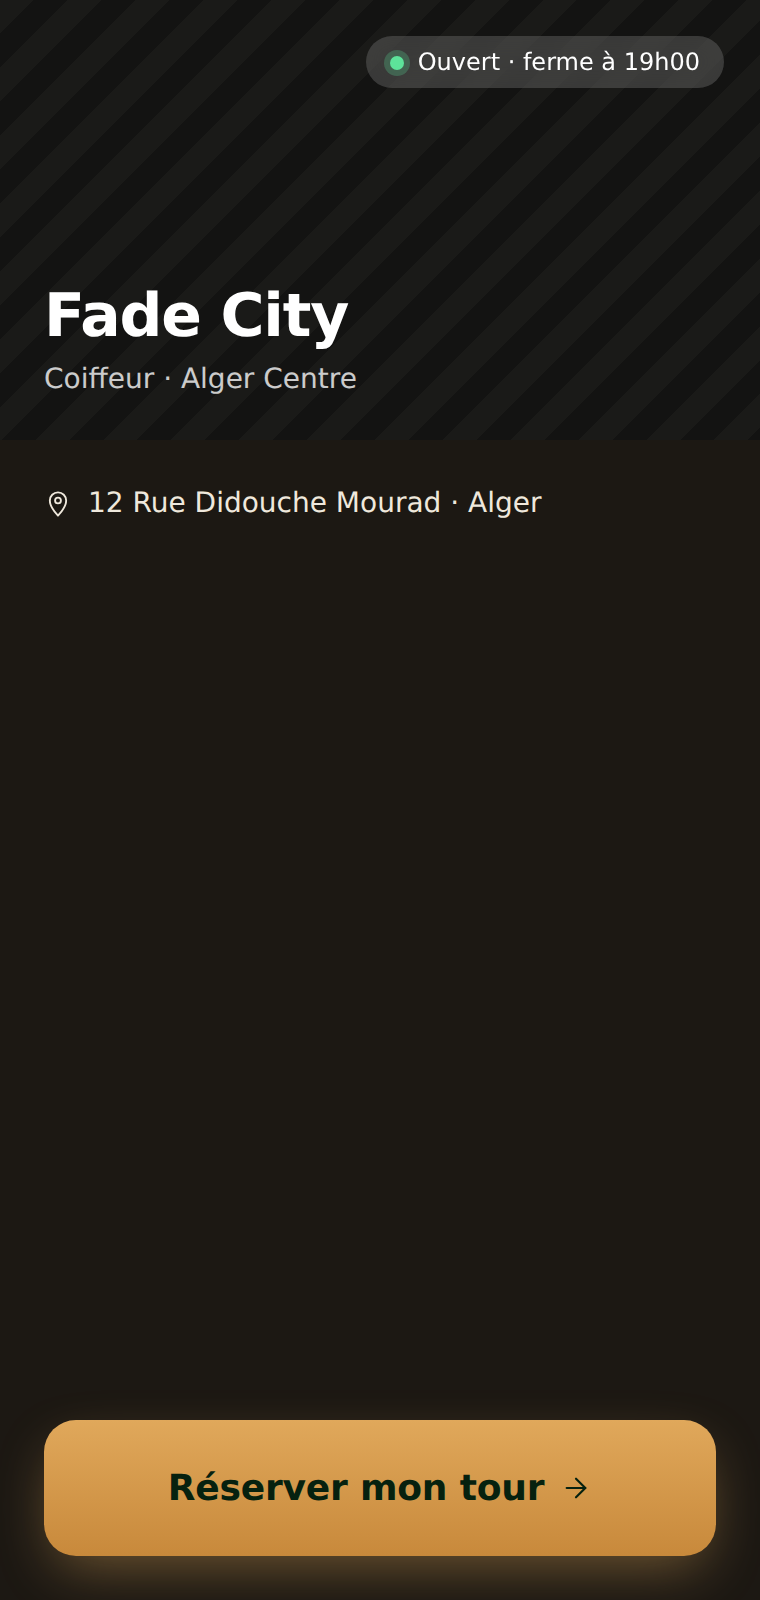
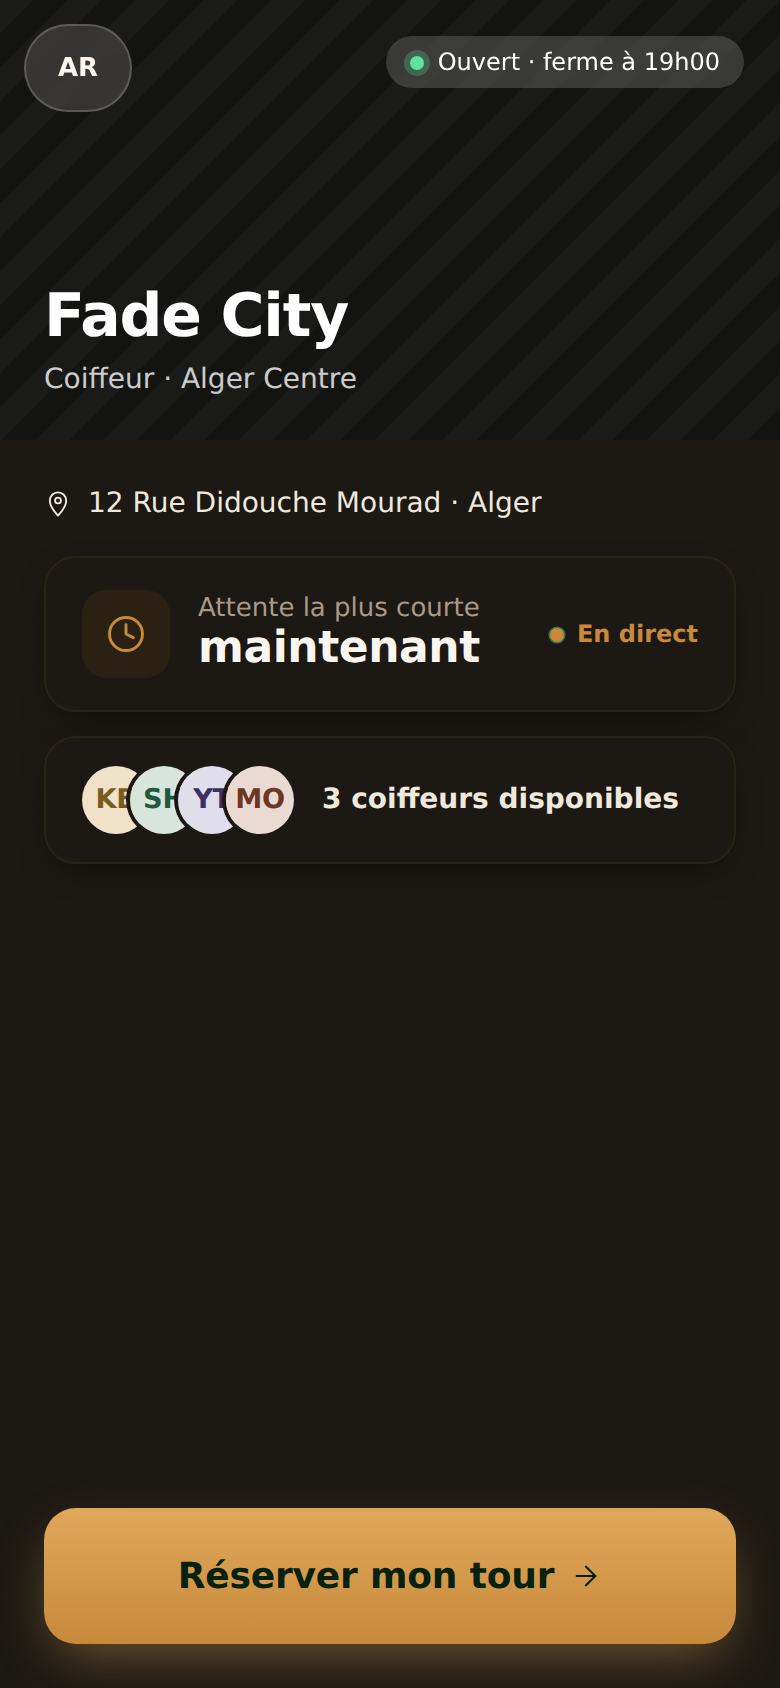
UI/UX: branded loading splash, richer booking landing, form hints
Guided by the ui-ux-pro-max checklist (progressive-loading, content-priority,
visual-hierarchy, autofill-support, input-type-keyboard):

- Branded loading splash (scissors logo + name + spinner) in all entries so the
  screen is never blank while React/Babel boot on a cold load; React replaces it
  on mount. Respects reduced-motion.
- Booking landing: filled the empty space with a live "shortest wait · En direct"
  card and the barber-team strip ("N coiffeurs disponibles") — useful info up
  front + better hierarchy.
- Details form: autocomplete (name / tel) + inputMode=tel so mobile shows the
  right keyboard and can autofill.

Re-synced site/. Verified: standalone app + site console-clean; splash and the
new landing render correctly.

https://claude.ai/code/session_01KXeZ2jfMa8Hu5hkugmRzRp

diff --git a/site/src/customer-flow.jsx b/site/src/customer-flow.jsx
@@ -137,6 +137,9 @@ function CustomerFlow({ lang = 'fr', density = 'sparse', barberOverrides = {}, o
 // STEP 0 — Salon landing (intentionally minimal — name, address, status, CTA)
 // ─────────────────────────────────────────────────────────────
 function SalonLanding({ t, onBook }) {
+  const open = BARBERS.filter(b => b.state !== 'break');
+  const shortestEta = open.length ? Math.min(...open.map(b => b.etaMin || 0)) : 0;
+  const waitLabel = shortestEta <= 0 ? (t.dir === 'rtl' ? 'الآن' : 'maintenant') : `~${shortestEta} ${t.min}`;
   return (
     <div style={{ flex: 1, overflow: 'hidden', display: 'flex', flexDirection: 'column' }}>
       {/* Hero "image" placeholder — striped, gives the shop a sense of presence */}
@@ -172,7 +175,45 @@ function SalonLanding({ t, onBook }) {
           <span>{t.salonAddr}</span>
         </div>
 
-        <div style={{ flex: 1 }} />
+        {/* Live "now" snapshot — shortest wait + the team (fills the space with useful info) */}
+        <div style={{ display: 'flex', flexDirection: 'column', gap: 12 }}>
+          <div style={{ background: TOKENS.surface, border: `1px solid ${TOKENS.borderSoft}`, borderRadius: 16,
+                        padding: '16px 18px', display: 'flex', alignItems: 'center', gap: 14, boxShadow: TOKENS.shadowSm }}>
+            <div style={{ width: 44, height: 44, borderRadius: 12, background: TOKENS.accentSoft, color: TOKENS.accent,
+                          display: 'flex', alignItems: 'center', justifyContent: 'center', flexShrink: 0 }}>
+              <Icon name="clock" size={22} />
+            </div>
+            <div style={{ flex: 1, minWidth: 0 }}>
+              <div style={{ fontSize: 13, color: TOKENS.muted }}>
+                {t.dir === 'rtl' ? 'أقصر انتظار الآن' : 'Attente la plus courte'}
+              </div>
+              <div style={{ fontSize: 22, fontWeight: 800, letterSpacing: '-0.01em', fontVariantNumeric: 'tabular-nums' }}>
+                {waitLabel}
+              </div>
+            </div>
+            <span style={{ display: 'inline-flex', alignItems: 'center', gap: 6, fontSize: 12, fontWeight: 700, color: TOKENS.accent }}>
+              <span style={{ width: 7, height: 7, borderRadius: '50%', background: TOKENS.accent,
+                             animation: 'fc-pulse 1.8s ease-in-out infinite' }} />
+              {t.dir === 'rtl' ? 'مباشر' : 'En direct'}
+            </span>
+          </div>
+          <div style={{ background: TOKENS.surface, border: `1px solid ${TOKENS.borderSoft}`, borderRadius: 16,
+                        padding: '14px 18px', display: 'flex', alignItems: 'center', gap: 14, boxShadow: TOKENS.shadowSm }}>
+            <div style={{ display: 'flex' }}>
+              {BARBERS.slice(0, 4).map((b, i) => (
+                <div key={b.id} style={{ marginInlineStart: i ? -10 : 0, borderRadius: '50%',
+                                         boxShadow: `0 0 0 2px ${TOKENS.surface}` }}>
+                  <Avatar initials={b.initials} tint={b.tint} text={b.text} size={34} />
+                </div>
+              ))}
+            </div>
+            <div style={{ flex: 1, fontSize: 14, color: TOKENS.inkSoft, fontWeight: 600 }}>
+              {t.dir === 'rtl' ? `${open.length} حلاقون متاحون` : `${open.length} coiffeurs disponibles`}
+            </div>
+          </div>
+        </div>
+
+        <div style={{ flex: 1, minHeight: 18 }} />
         <Button variant="accent" size="xl" onClick={onBook} rightIcon="arrow-right">{t.bookCta}</Button>
       </div>
     </div>
@@ -475,11 +516,11 @@ function DetailsStep({ t, barber, lang, service, timeKey, dayIdx, name, phone, s
       <div style={{ display: 'flex', flexDirection: 'column', gap: 14, marginTop: 18 }}>
         <Field label={t.fullName} icon="user">
           <input value={name} onChange={e => setName(e.target.value)} placeholder={t.namePlaceholder}
-                 style={inputStyle(t)} />
+                 autoComplete="name" autoCapitalize="words" style={inputStyle(t)} />
         </Field>
         <Field label={t.phone} icon="phone" prefix="+213">
           <input value={phone} onChange={e => setPhone(e.target.value)} placeholder={t.phonePlaceholder}
-                 inputMode="tel" style={{ ...inputStyle(t), paddingInlineStart: 80 }} />
+                 inputMode="tel" autoComplete="tel" style={{ ...inputStyle(t), paddingInlineStart: 80 }} />
         </Field>
         <div style={{ fontSize: 12, color: TOKENS.muted, lineHeight: 1.5,
                       display: 'flex', alignItems: 'flex-start', gap: 8 }}>

diff --git a/src/customer-flow.jsx b/src/customer-flow.jsx
@@ -137,6 +137,9 @@ function CustomerFlow({ lang = 'fr', density = 'sparse', barberOverrides = {}, o
 // STEP 0 — Salon landing (intentionally minimal — name, address, status, CTA)
 // ─────────────────────────────────────────────────────────────
 function SalonLanding({ t, onBook }) {
+  const open = BARBERS.filter(b => b.state !== 'break');
+  const shortestEta = open.length ? Math.min(...open.map(b => b.etaMin || 0)) : 0;
+  const waitLabel = shortestEta <= 0 ? (t.dir === 'rtl' ? 'الآن' : 'maintenant') : `~${shortestEta} ${t.min}`;
   return (
     <div style={{ flex: 1, overflow: 'hidden', display: 'flex', flexDirection: 'column' }}>
       {/* Hero "image" placeholder — striped, gives the shop a sense of presence */}
@@ -172,7 +175,45 @@ function SalonLanding({ t, onBook }) {
           <span>{t.salonAddr}</span>
         </div>
 
-        <div style={{ flex: 1 }} />
+        {/* Live "now" snapshot — shortest wait + the team (fills the space with useful info) */}
+        <div style={{ display: 'flex', flexDirection: 'column', gap: 12 }}>
+          <div style={{ background: TOKENS.surface, border: `1px solid ${TOKENS.borderSoft}`, borderRadius: 16,
+                        padding: '16px 18px', display: 'flex', alignItems: 'center', gap: 14, boxShadow: TOKENS.shadowSm }}>
+            <div style={{ width: 44, height: 44, borderRadius: 12, background: TOKENS.accentSoft, color: TOKENS.accent,
+                          display: 'flex', alignItems: 'center', justifyContent: 'center', flexShrink: 0 }}>
+              <Icon name="clock" size={22} />
+            </div>
+            <div style={{ flex: 1, minWidth: 0 }}>
+              <div style={{ fontSize: 13, color: TOKENS.muted }}>
+                {t.dir === 'rtl' ? 'أقصر انتظار الآن' : 'Attente la plus courte'}
+              </div>
+              <div style={{ fontSize: 22, fontWeight: 800, letterSpacing: '-0.01em', fontVariantNumeric: 'tabular-nums' }}>
+                {waitLabel}
+              </div>
+            </div>
+            <span style={{ display: 'inline-flex', alignItems: 'center', gap: 6, fontSize: 12, fontWeight: 700, color: TOKENS.accent }}>
+              <span style={{ width: 7, height: 7, borderRadius: '50%', background: TOKENS.accent,
+                             animation: 'fc-pulse 1.8s ease-in-out infinite' }} />
+              {t.dir === 'rtl' ? 'مباشر' : 'En direct'}
+            </span>
+          </div>
+          <div style={{ background: TOKENS.surface, border: `1px solid ${TOKENS.borderSoft}`, borderRadius: 16,
+                        padding: '14px 18px', display: 'flex', alignItems: 'center', gap: 14, boxShadow: TOKENS.shadowSm }}>
+            <div style={{ display: 'flex' }}>
+              {BARBERS.slice(0, 4).map((b, i) => (
+                <div key={b.id} style={{ marginInlineStart: i ? -10 : 0, borderRadius: '50%',
+                                         boxShadow: `0 0 0 2px ${TOKENS.surface}` }}>
+                  <Avatar initials={b.initials} tint={b.tint} text={b.text} size={34} />
+                </div>
+              ))}
+            </div>
+            <div style={{ flex: 1, fontSize: 14, color: TOKENS.inkSoft, fontWeight: 600 }}>
+              {t.dir === 'rtl' ? `${open.length} حلاقون متاحون` : `${open.length} coiffeurs disponibles`}
+            </div>
+          </div>
+        </div>
+
+        <div style={{ flex: 1, minHeight: 18 }} />
         <Button variant="accent" size="xl" onClick={onBook} rightIcon="arrow-right">{t.bookCta}</Button>
       </div>
     </div>
@@ -475,11 +516,11 @@ function DetailsStep({ t, barber, lang, service, timeKey, dayIdx, name, phone, s
       <div style={{ display: 'flex', flexDirection: 'column', gap: 14, marginTop: 18 }}>
         <Field label={t.fullName} icon="user">
           <input value={name} onChange={e => setName(e.target.value)} placeholder={t.namePlaceholder}
-                 style={inputStyle(t)} />
+                 autoComplete="name" autoCapitalize="words" style={inputStyle(t)} />
         </Field>
         <Field label={t.phone} icon="phone" prefix="+213">
           <input value={phone} onChange={e => setPhone(e.target.value)} placeholder={t.phonePlaceholder}
-                 inputMode="tel" style={{ ...inputStyle(t), paddingInlineStart: 80 }} />
+                 inputMode="tel" autoComplete="tel" style={{ ...inputStyle(t), paddingInlineStart: 80 }} />
         </Field>
         <div style={{ fontSize: 12, color: TOKENS.muted, lineHeight: 1.5,
                       display: 'flex', alignItems: 'flex-start', gap: 8 }}>

diff --git a/index.html b/index.html
@@ -38,6 +38,11 @@
   ::selection { background: #C8893B55; }
   button, [role="button"], a, input, textarea, select { touch-action: manipulation; }
   :focus-visible { outline: 2px solid #E0A85B; outline-offset: 2px; border-radius: 4px; }
+  .fc-boot { position: fixed; inset: 0; z-index: 5; display: flex; flex-direction: column; align-items: center; justify-content: center; gap: 16px; }
+  .fc-boot-logo { width: 72px; height: 72px; border-radius: 20px; background: linear-gradient(145deg,#E0A85B,#C8893B); display: flex; align-items: center; justify-content: center; box-shadow: 0 12px 30px -8px rgba(224,168,91,0.4); }
+  .fc-boot-name { font-size: 18px; font-weight: 800; letter-spacing: -0.01em; color: #FAF6EF; }
+  .fc-boot-spin { width: 26px; height: 26px; border-radius: 50%; border: 3px solid rgba(224,168,91,0.25); border-top-color: #E0A85B; animation: fc-spin .8s linear infinite; }
+  @keyframes fc-spin { to { transform: rotate(360deg); } }
 
   /* Ambient pulsing light circles in the background — like a heartbeat */
   .ambient-blur {
@@ -85,7 +90,7 @@
   <div class="ambient-blur a"></div>
   <div class="ambient-blur b"></div>
   <div class="ambient-blur c"></div>
-  <div id="root"></div>
+  <div id="root"><div class="fc-boot" aria-hidden="true"><div class="fc-boot-logo"><svg viewBox="0 0 24 24" width="34" height="34" fill="none" stroke="#1C1813" stroke-width="1.8" stroke-linecap="round" stroke-linejoin="round"><circle cx="6" cy="6" r="3"/><circle cx="6" cy="18" r="3"/><line x1="20" y1="4" x2="8.12" y2="15.88"/><line x1="14.47" y1="14.48" x2="20" y2="20"/><line x1="8.12" y1="8.12" x2="12" y2="12"/></svg></div><div class="fc-boot-name">Fade City</div><div class="fc-boot-spin"></div></div></div>
 
   <!-- React + Babel are vendored locally (in vendor/) so the app has no
        external runtime dependency: it loads faster and never breaks if a CDN

diff --git a/app/index.html b/app/index.html
@@ -27,13 +27,18 @@
   button, [role="button"], a, input, textarea, select { touch-action: manipulation; }
   :focus-visible { outline: 2px solid #E0A85B; outline-offset: 2px; border-radius: 4px; }
   #root { height: 100%; width: 100%; max-width: 520px; margin: 0 auto; overflow: hidden; }
+  .fc-boot { height: 100%; display: flex; flex-direction: column; align-items: center; justify-content: center; gap: 16px; }
+  .fc-boot-logo { width: 72px; height: 72px; border-radius: 20px; background: linear-gradient(145deg,#E0A85B,#C8893B); display: flex; align-items: center; justify-content: center; box-shadow: 0 12px 30px -8px rgba(224,168,91,0.4); }
+  .fc-boot-name { font-size: 18px; font-weight: 800; letter-spacing: -0.01em; color: #FAF6EF; }
+  .fc-boot-spin { width: 26px; height: 26px; border-radius: 50%; border: 3px solid rgba(224,168,91,0.25); border-top-color: #E0A85B; animation: fc-spin .8s linear infinite; }
+  @keyframes fc-spin { to { transform: rotate(360deg); } }
   @media (prefers-reduced-motion: reduce) {
     *, *::before, *::after { animation-duration: .001ms !important; transition-duration: .001ms !important; }
   }
 </style>
 </head>
 <body>
-  <div id="root"></div>
+  <div id="root"><div class="fc-boot" aria-hidden="true"><div class="fc-boot-logo"><svg viewBox="0 0 24 24" width="34" height="34" fill="none" stroke="#1C1813" stroke-width="1.8" stroke-linecap="round" stroke-linejoin="round"><circle cx="6" cy="6" r="3"/><circle cx="6" cy="18" r="3"/><line x1="20" y1="4" x2="8.12" y2="15.88"/><line x1="14.47" y1="14.48" x2="20" y2="20"/><line x1="8.12" y1="8.12" x2="12" y2="12"/></svg></div><div class="fc-boot-name">Fade City</div><div class="fc-boot-spin"></div></div></div>
 
   <script src="vendor/react.production.min.js"></script>
   <script src="vendor/react-dom.production.min.js"></script>

diff --git a/site/index.html b/site/index.html
@@ -28,13 +28,18 @@
   :focus-visible { outline: 2px solid #E0A85B; outline-offset: 2px; border-radius: 4px; }
   input::placeholder { color: #6B5E4A; }
   #root { height: 100%; width: 100%; max-width: 480px; margin: 0 auto; overflow: hidden; }
+  .fc-boot { height: 100%; display: flex; flex-direction: column; align-items: center; justify-content: center; gap: 16px; }
+  .fc-boot-logo { width: 72px; height: 72px; border-radius: 20px; background: linear-gradient(145deg,#E0A85B,#C8893B); display: flex; align-items: center; justify-content: center; box-shadow: 0 12px 30px -8px rgba(224,168,91,0.4); }
+  .fc-boot-name { font-size: 18px; font-weight: 800; letter-spacing: -0.01em; color: #FAF6EF; }
+  .fc-boot-spin { width: 26px; height: 26px; border-radius: 50%; border: 3px solid rgba(224,168,91,0.25); border-top-color: #E0A85B; animation: fc-spin .8s linear infinite; }
+  @keyframes fc-spin { to { transform: rotate(360deg); } }
   @media (prefers-reduced-motion: reduce) {
     *, *::before, *::after { animation-duration: .001ms !important; transition-duration: .001ms !important; }
   }
 </style>
 </head>
 <body>
-  <div id="root"></div>
+  <div id="root"><div class="fc-boot" aria-hidden="true"><div class="fc-boot-logo"><svg viewBox="0 0 24 24" width="34" height="34" fill="none" stroke="#1C1813" stroke-width="1.8" stroke-linecap="round" stroke-linejoin="round"><circle cx="6" cy="6" r="3"/><circle cx="6" cy="18" r="3"/><line x1="20" y1="4" x2="8.12" y2="15.88"/><line x1="14.47" y1="14.48" x2="20" y2="20"/><line x1="8.12" y1="8.12" x2="12" y2="12"/></svg></div><div class="fc-boot-name">Fade City</div><div class="fc-boot-spin"></div></div></div>
 
   <script src="vendor/react.production.min.js"></script>
   <script src="vendor/react-dom.production.min.js"></script>
